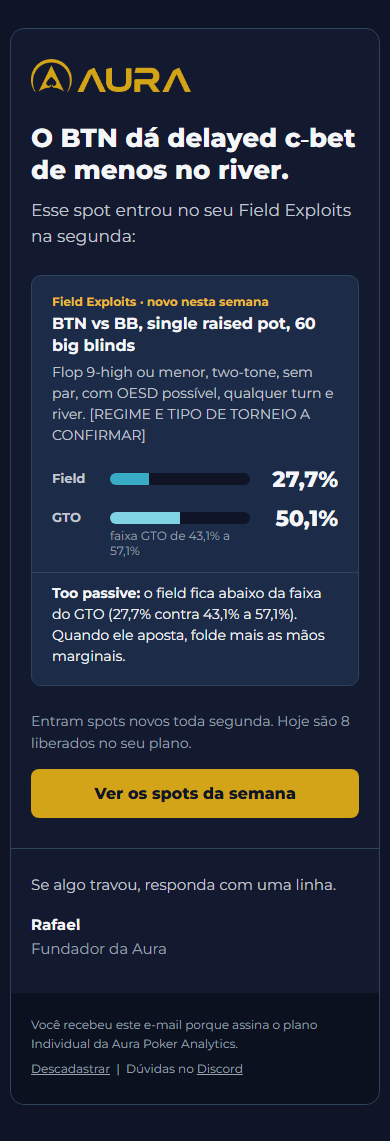
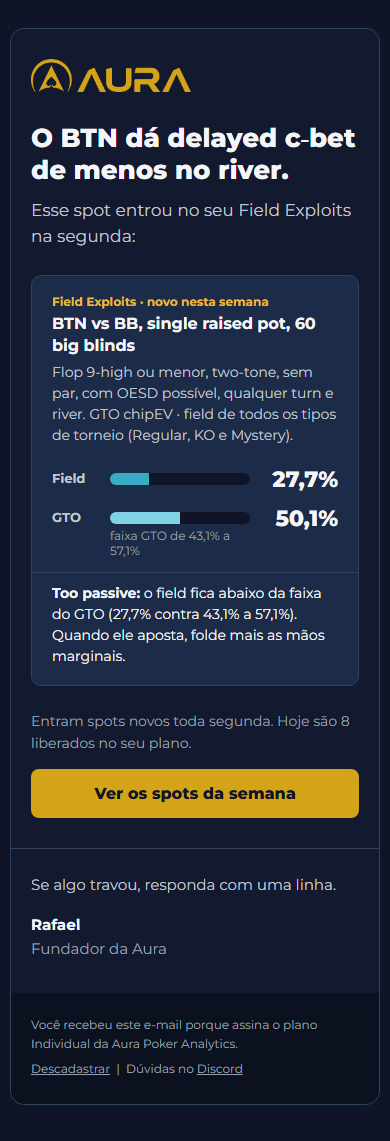
feat(email): P1 com regime e tipo no card (GTO chipEV, field de todos os tipos de torneio)

Changed region(s): [[0.1231, 0.3374, 0.8615, 0.3988]]

diff --git a/content/email/pagante-p1-sem-login.html b/content/email/pagante-p1-sem-login.html
@@ -33,7 +33,7 @@
 <tr><td style="padding:18px 20px 6px 20px; font-family:Montserrat,Arial,Helvetica,sans-serif;">
   <p style="margin:0 0 4px 0; font-size:12px; font-weight:700; color:#E8BC3A;">Field Exploits · novo nesta semana</p>
   <p style="margin:0 0 4px 0; font-size:16px; font-weight:700; line-height:1.4; color:#F5F6F8;">BTN vs BB, single raised pot, 60 big blinds</p>
-  <p style="margin:0; font-size:14px; line-height:1.5; color:#C3C7D1;">Flop 9-high ou menor, two-tone, sem par, com OESD possível, qualquer turn e river. [REGIME E TIPO DE TORNEIO A CONFIRMAR]</p>
+  <p style="margin:0; font-size:14px; line-height:1.5; color:#C3C7D1;">Flop 9-high ou menor, two-tone, sem par, com OESD possível, qualquer turn e river. GTO chipEV · field de todos os tipos de torneio (Regular, KO e Mystery).</p>
 </td></tr>
 <tr><td style="padding:8px 20px 4px 20px;">
 <table role="presentation" width="100%" cellpadding="0" cellspacing="0" border="0">

diff --git a/content/email/_template/build_pagante.py b/content/email/_template/build_pagante.py
@@ -15,6 +15,7 @@ from components import *  # noqa: E402,F403
 
 OUT = pathlib.Path(__file__).resolve().parent.parent
 
+# regime e tipo (FE 1.2 via HUB, 04/11): GTO chipEV; field mistura Regular, KO e Mystery (ficha FE-REGIME)
 # números: tela /exploits em 04/11, BTN vs BB river delayed c-bet SRP, 60bb (snapshot 20261102, referência 20261022)
 p1 = email(
     title="Spot novo no seu Field Exploits: o BTN dá delayed c-bet de menos no river",
@@ -24,7 +25,7 @@ p1 = email(
     blocks=[
         row(gto_card(
             spot="BTN vs BB, single raised pot, 60 big blinds",
-            context="Flop 9-high ou menor, two-tone, sem par, com OESD possível, qualquer turn e river. [REGIME E TIPO DE TORNEIO A CONFIRMAR]",
+            context="Flop 9-high ou menor, two-tone, sem par, com OESD possível, qualquer turn e river. GTO chipEV · field de todos os tipos de torneio (Regular, KO e Mystery).",
             field="27,7", gto="50,1", band="faixa GTO de 43,1% a 57,1%",
             verdict="<strong>Too passive:</strong> o field fica abaixo da faixa do GTO (27,7% contra 43,1% a 57,1%). Quando ele aposta, folde mais as mãos marginais.",
             label="Field Exploits · novo nesta semana",
